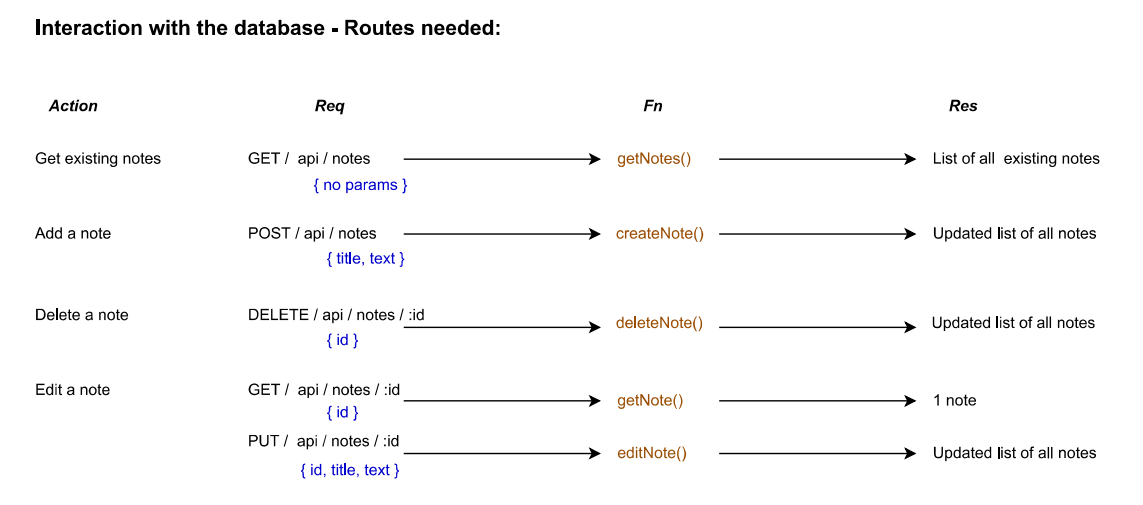
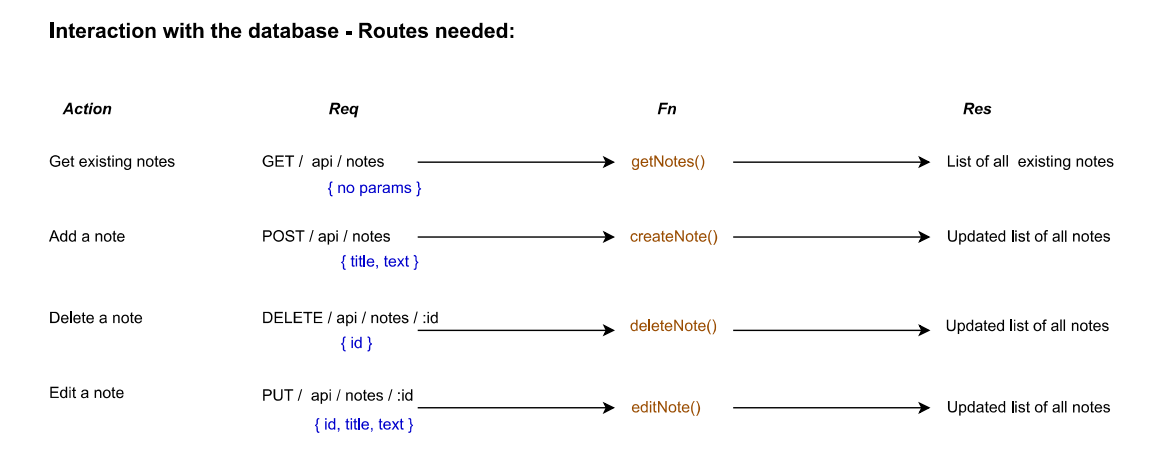
completed readme

diff --git a/README.md b/README.md
@@ -10,15 +10,16 @@ A note taking app using node.js, express.js and a frontend html interface for in
 - [Detailed user story](#detailed-user-story)
 - [Routes](#routes)
 - [File structure](#file-structure)
+- [Installation](#installation)
 - [Contact](#contact)
 
 ## Summary
 
 This application allows a user to write and save notes so that they can organise their thoughts and keep track of what they need to do.
 
-Github repo:
+Github repo: [https://github.com/Am0031/note-taker/tree/dev](https://github.com/Am0031/note-taker/tree/dev)
 
-Heroku deployed page:
+Heroku deployed page: [https://peaceful-bastion-97815.herokuapp.com/](https://peaceful-bastion-97815.herokuapp.com/)
 
 ## Detailed User Story
 
@@ -49,7 +50,7 @@ WHEN I click on the Save icon
 THEN the note I have updated is saved and the updated version appears in the left-hand column with the other existing notes
 ```
 
-## File structure
+## Routes
 
 On the back end, the application includes a `db.json` file that is used to store the notes. These are saved and retrieved using the `fs` module.
 
@@ -68,6 +69,52 @@ The following API routes have been created:
 - `PUT /api/notes/:id` -> receives a query parameter that contains the id of a note to update, and the new content of the note, reads from the `db.json` file, finds the corresponding note, updates its content, and sends the updated notes back to the `db.json` file.
 
 - `DELETE /api/notes/:id` -> receives a query parameter that contains the id of a note to delete, reads all notes from the `db.json` file, removes the note with the given `id` property, and then rewrites the notes to the `db.json` file.
+
+See a recap diagram of the routes needed:
+![Routes](./other/screenshot-routes.png)
+
+## File structure
+
+Based on the routes above, the following routes and controllers files are needed to structure our express server:
+![Server](./other/screenshot-server.png)
+
+This structure is then used for our repo:
+![Server](./other/screenshot-repo.png)
+
+## Installation
+
+To try out this application, you can visit this [heroku deployed app page](https://peaceful-bastion-97815.herokuapp.com/).
+
+If you'd like to install this application locally on your machine, you will need to follow these steps for it to then run properly:
+
+Open the CLI and clone the repository, using SSH keys:
+
+```
+git clone git@github.com:Am0031/note-taker.git
+```
+
+Or using HTTPS link:
+
+```
+git clone https://github.com/Am0031/note-taker.git
+```
+
+Go into the new repository and install the required packages:
+
+```
+cd note-taker
+npm install
+```
+
+Once installed, to get this project running, the following command must be entered in the CLI:
+
+```
+npm run start
+```
+
+The following message will then appear: **Server running on http://localhost:4000**
+
+Once the application is started, you can open your browser and travel to the localhost page with the following url: **http://localhost:4000/**
 
 ## Contact
 
